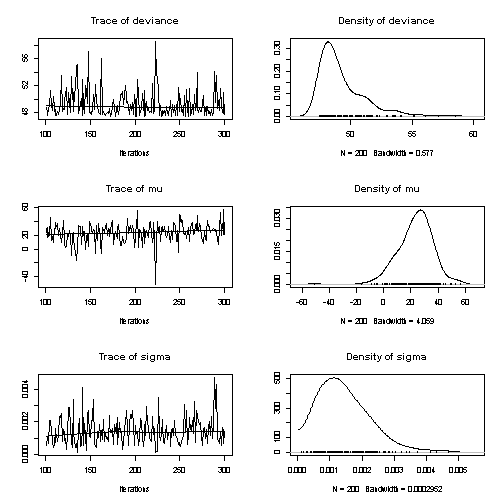
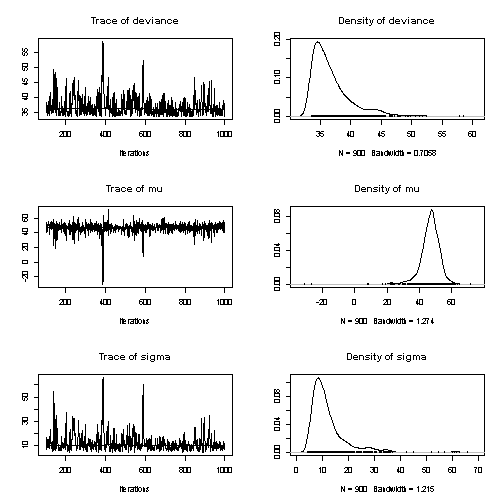
prefin

diff --git a/pres.md b/pres.md
@@ -1,6 +1,6 @@
 Doing it Bayesian
 ========================================================
-author: Jan Smycka, Petr Keil
+author: Jan Smycka
 date: 
 
 Conditional probability
@@ -59,7 +59,7 @@ x
 ```
 
 ```
-[1] 27 30 15 22 22
+[1] 19 20 24 27 21
 ```
  
  
@@ -310,6 +310,8 @@ MCMC
 ========================================================
 ![mcmc illustration](http://mbjoseph.github.io/images/metrop.gif)
 
+from Maxwell Joseph's GitHub (http://mbjoseph.github.io/images/metrop.gif)
+
 
 BUGS language
 ========================================================
@@ -325,7 +327,7 @@ JAGS
 ========================================================
 
 ```r
-y <- rnorm(5, 48.1, 6.1^2)
+y <- rnorm(5, 48.1, 6.1)
 N <- 5
 
 my.data <- list(y=y, N=N)
@@ -334,7 +336,7 @@ my.data
 
 ```
 $y
-[1] -26.26397  45.94571  40.74765  32.04463  48.32490
+[1] 36.12103 48.29577 56.31363 52.99604 46.24476
 
 $N
 [1] 5
@@ -359,11 +361,12 @@ model
     
   # p(sigma) ... sigma prior
     sigma ~ dunif(0, 100)
+    tau<-1/(sigma*sigma)
     
   # p(y|mu, sigma) ... likelihood
     for(i in 1:N)
     {
-      y[i] ~ dnorm(mu, sigma)    
+      y[i] ~ dnorm(mu, tau)    
     }
 }
 ```
@@ -377,13 +380,17 @@ We will dump the model to a file using ```cat("", file="")```
 cat("
 model
 {
-  # priors
+  # p(mu) ... mu prior
     mu ~ dnorm (0, 0.001)
+    
+  # p(sigma) ... sigma prior
     sigma ~ dunif(0, 100)
-  # likelihood
+    tau<-1/(sigma*sigma)
+    
+  # p(y|mu, sigma) ... likelihood
     for(i in 1:N)
     {
-      y[i] ~ dnorm(mu, sigma)    
+      y[i] ~ dnorm(mu, tau)    
     }
 }
 ", file="my_model.txt")
@@ -395,14 +402,14 @@ JAGS
 ```r
 library(R2jags)
 
-fitted.model <- jags(data=my.data,  model.file="my_model.txt", parameters.to.save=c("mu", "sigma"), n.chains=1, n.iter=300, n.burnin=100)
+fitted.model <- jags(data=my.data,  model.file="my_model.txt", parameters.to.save=c("mu", "sigma"), n.chains=1, n.iter=1000, n.burnin=100)
 ```
 
 ```
 Compiling model graph
    Resolving undeclared variables
    Allocating nodes
-   Graph Size: 11
+   Graph Size: 14
 
 Initializing model
 ```
